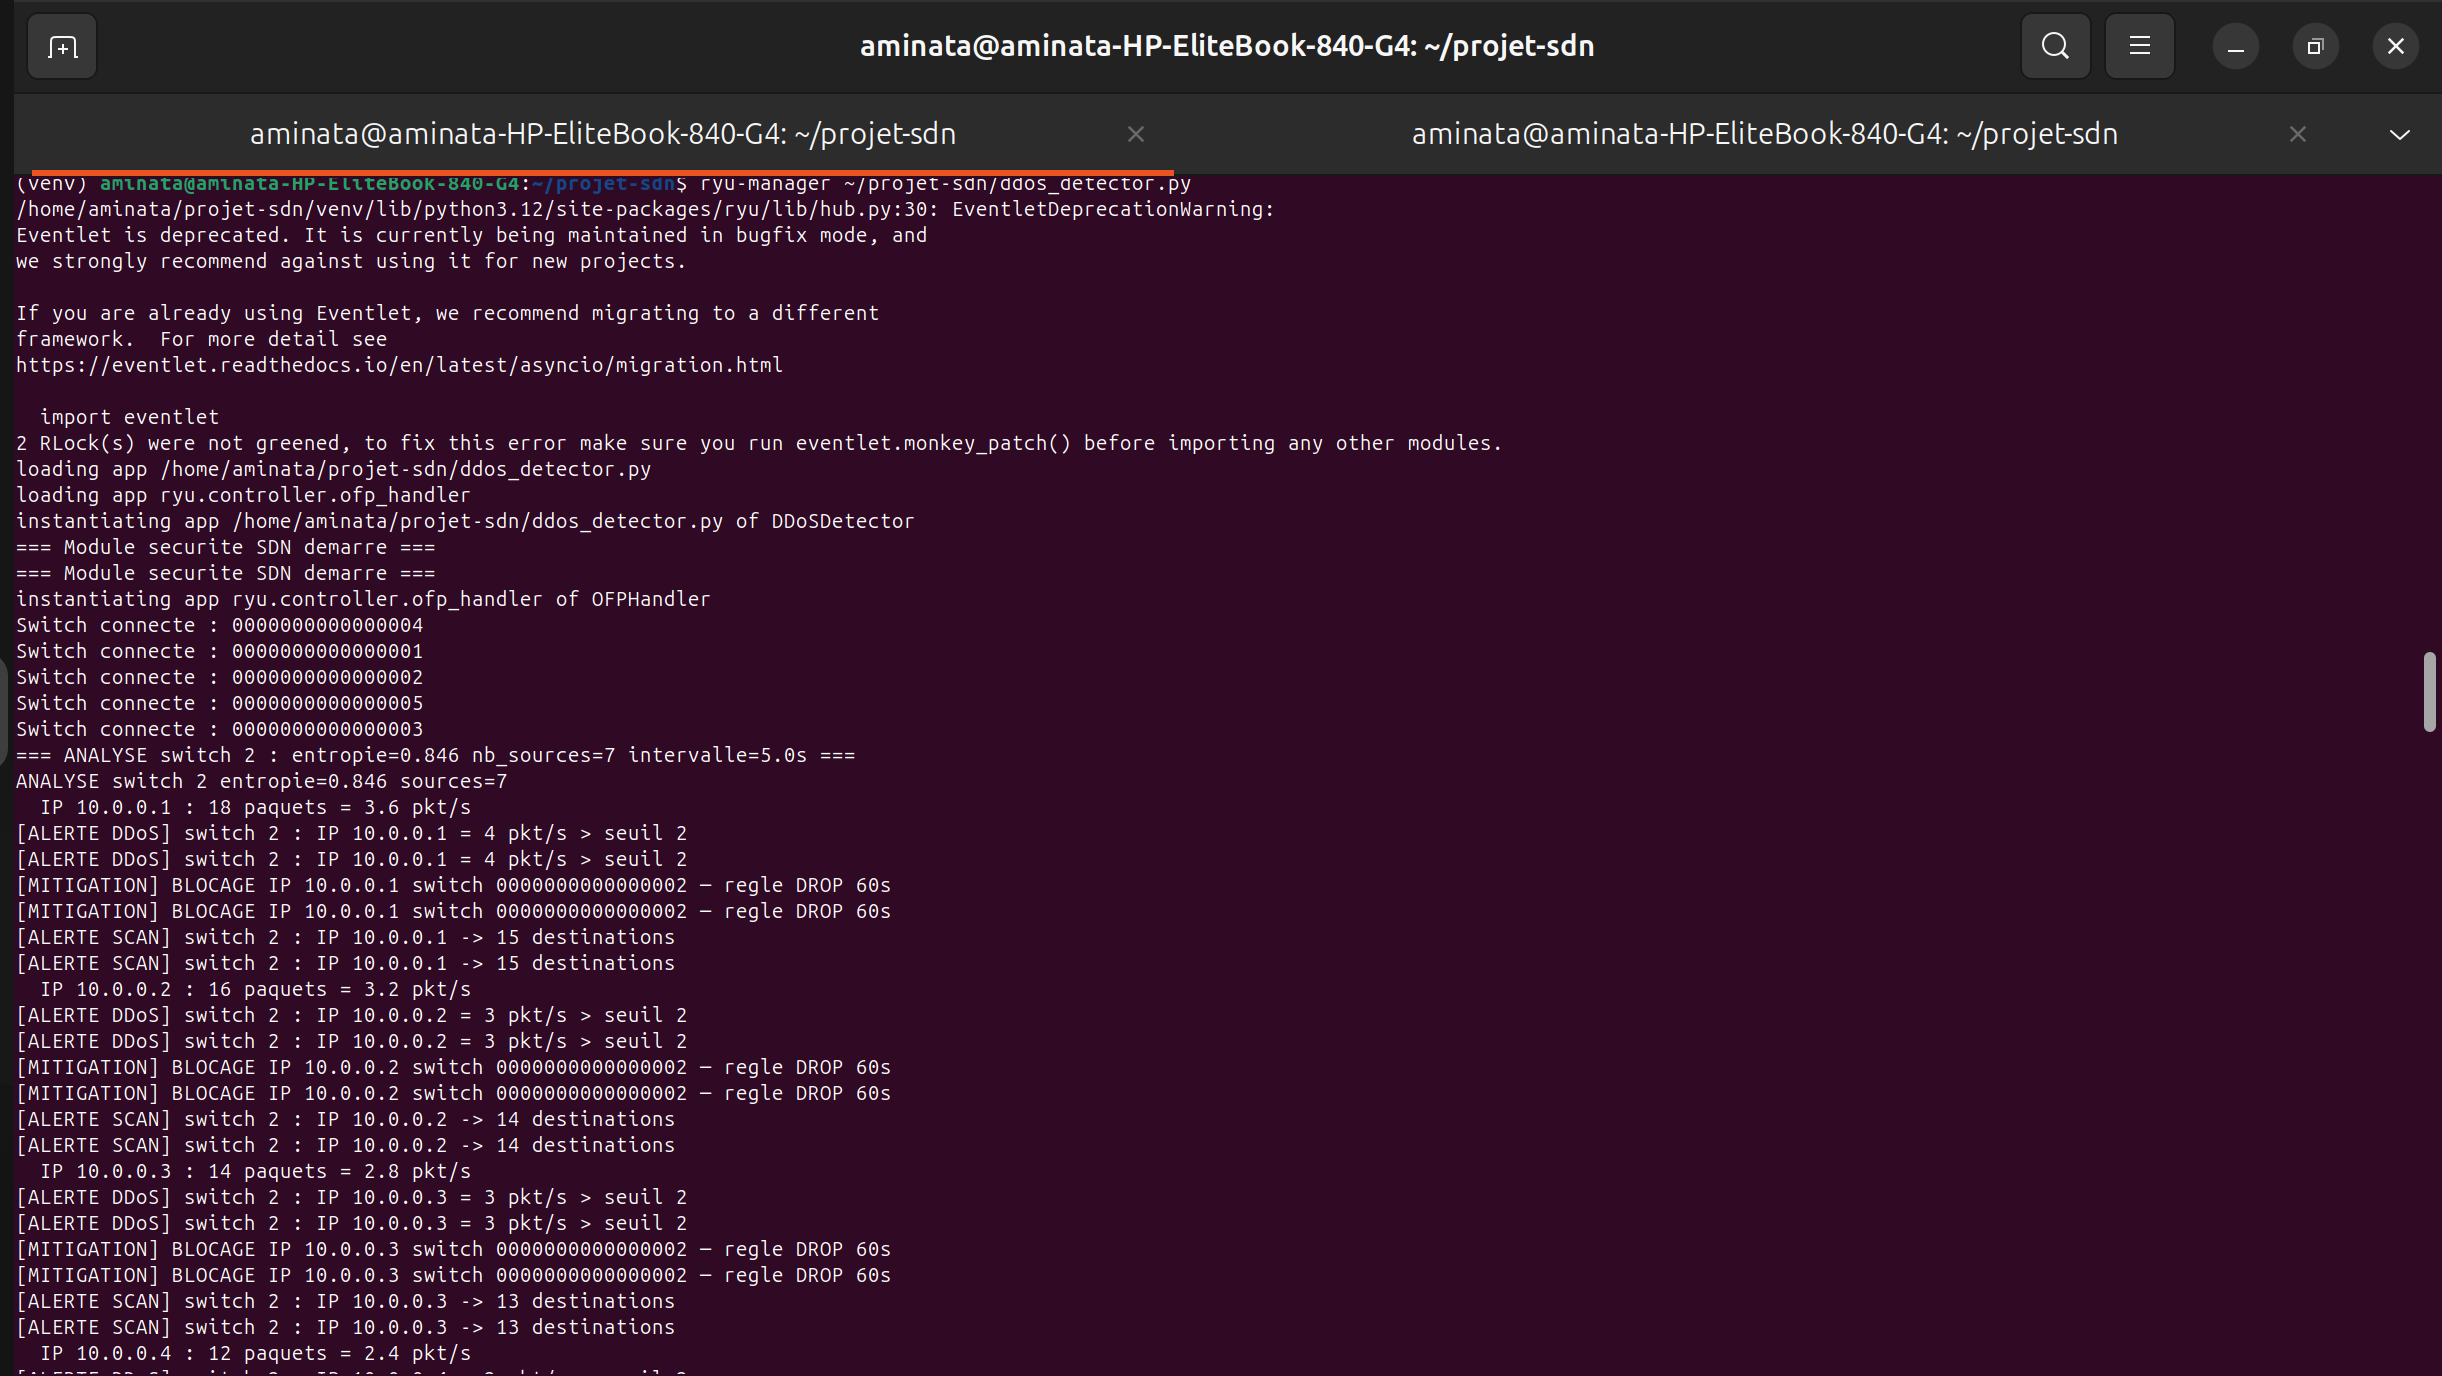
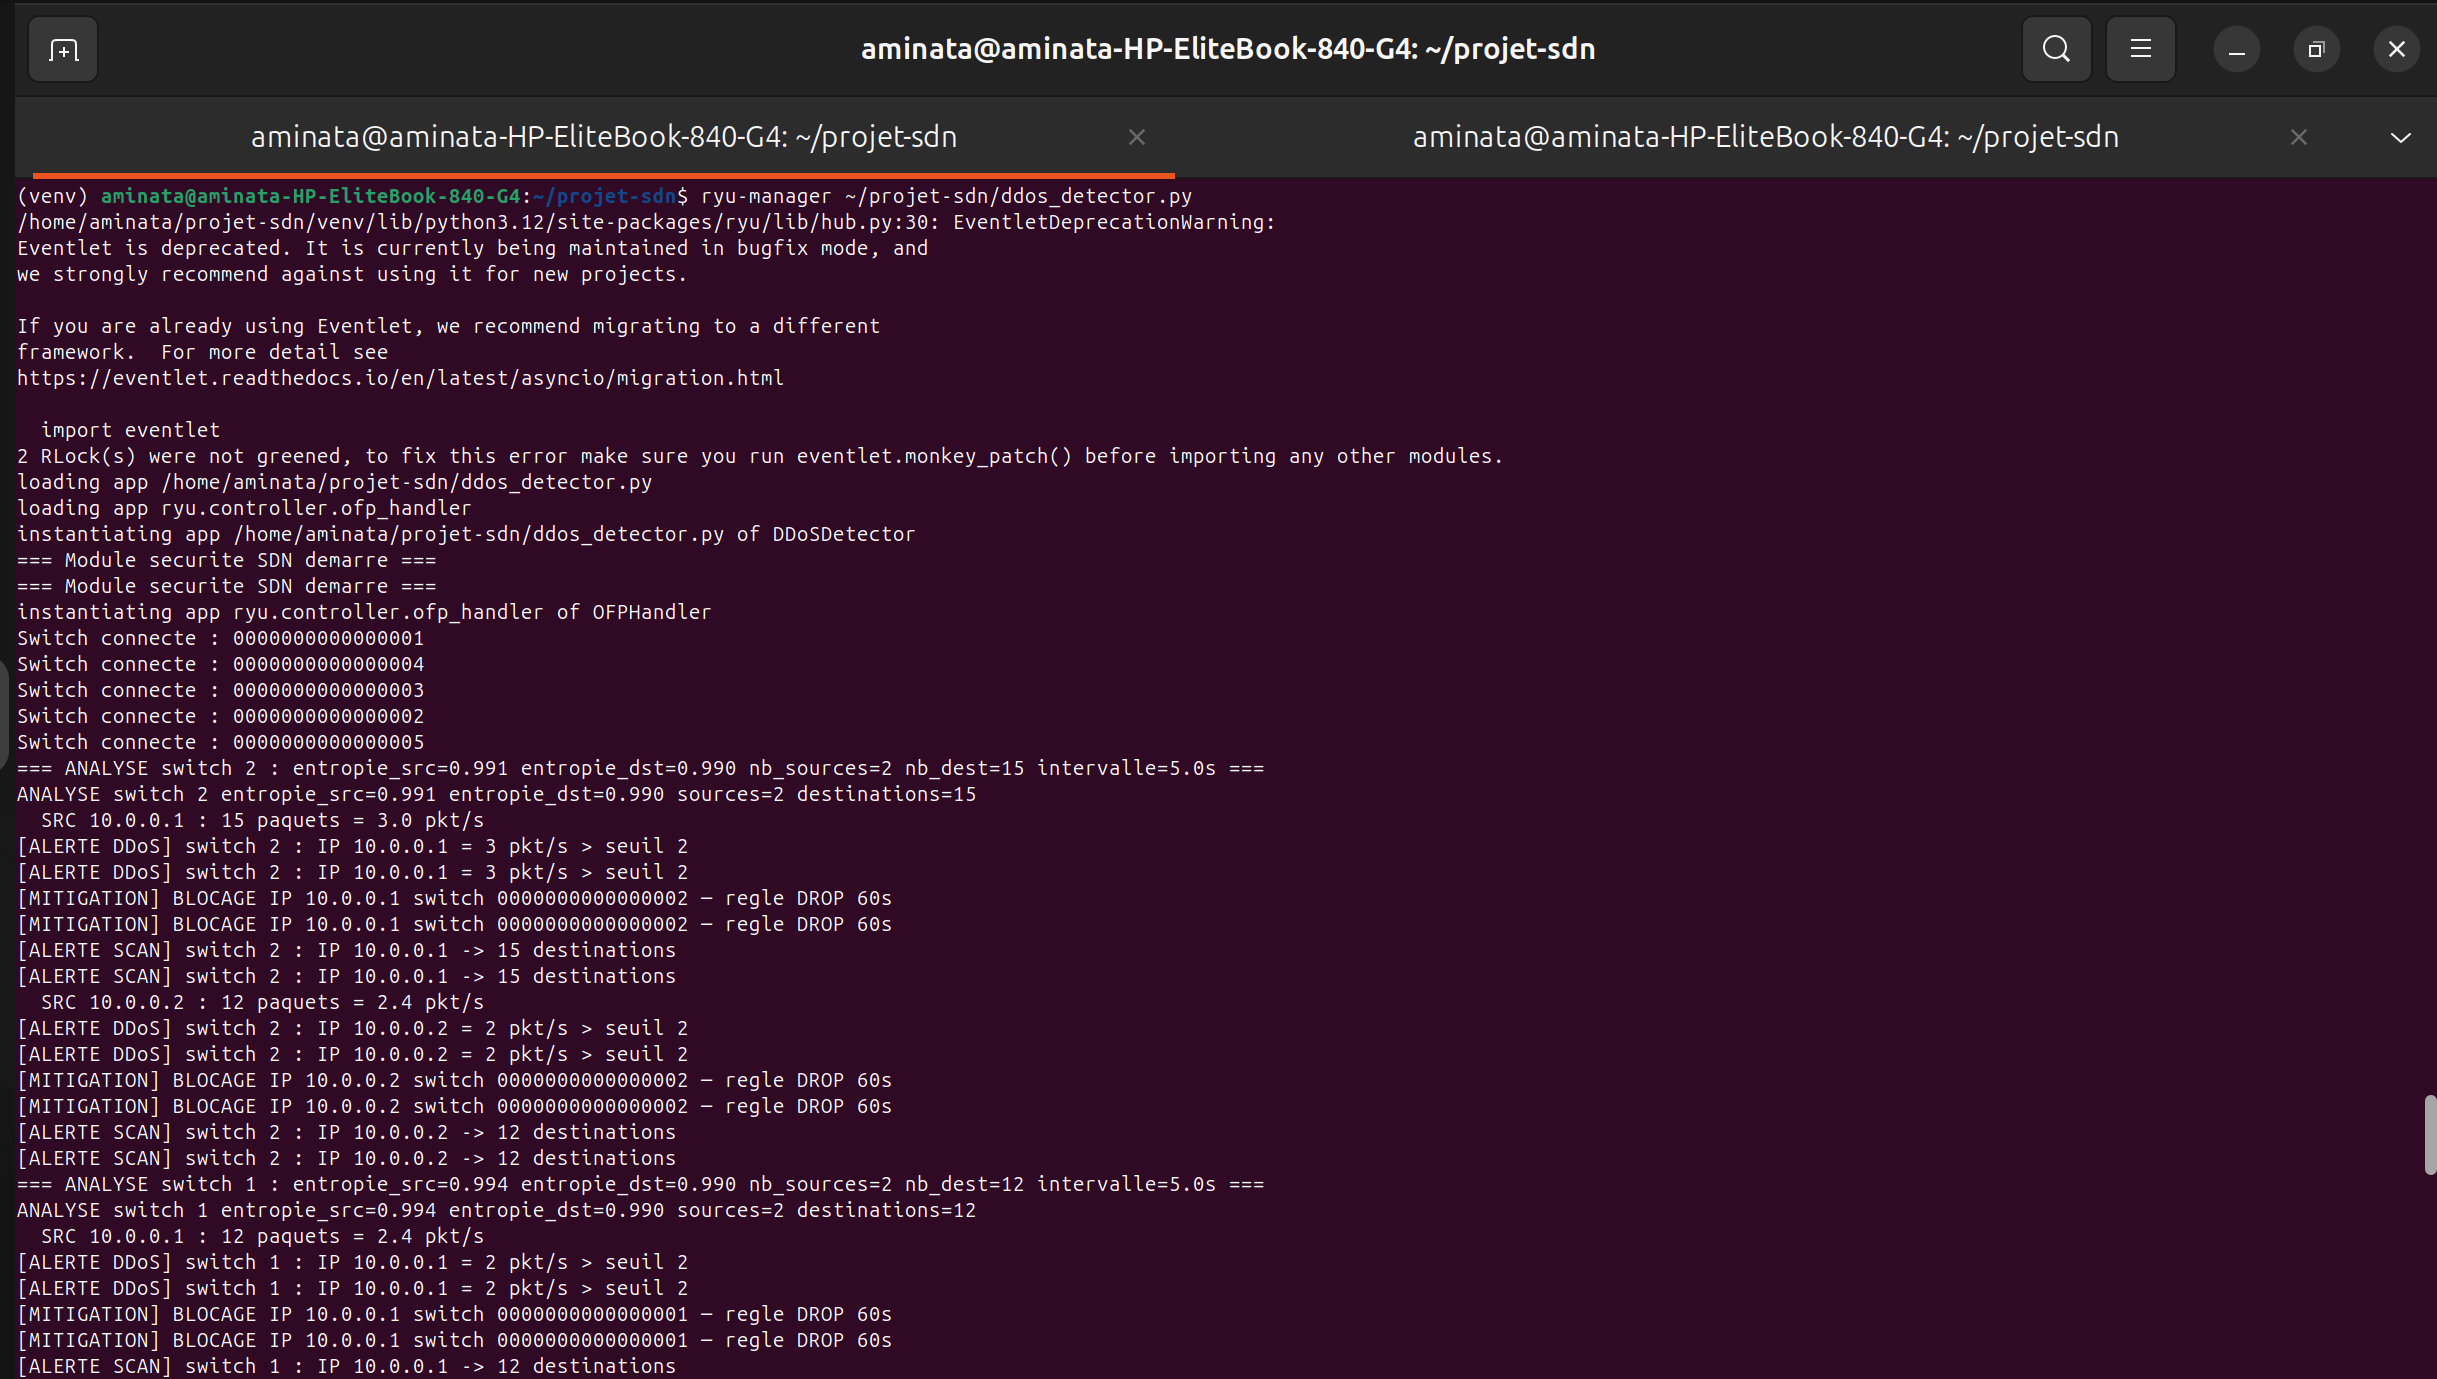
Phase 4 etape 1 : detection DDoS - entropie src+dst + paquets/sec + mitigation DROP + journalisation

diff --git a/ddos_detector.py b/ddos_detector.py
@@ -1,0 +1,232 @@
+from ryu.base import app_manager
+from ryu.controller import ofp_event
+from ryu.controller.handler import MAIN_DISPATCHER, CONFIG_DISPATCHER, DEAD_DISPATCHER
+from ryu.controller.handler import set_ev_cls
+from ryu.ofproto import ofproto_v1_3
+from ryu.lib.packet import packet, ethernet, ipv4, icmp
+from ryu.lib import hub
+from collections import defaultdict
+import math
+import time
+import logging
+import os
+
+class DDoSDetector(app_manager.RyuApp):
+    OFP_VERSIONS = [ofproto_v1_3.OFP_VERSION]
+
+    SEUIL_PAQUETS_PAR_SEC = 2
+    SEUIL_ENTROPIE        = 0.5
+    SEUIL_FLUX_PAR_IP     = 10
+    INTERVALLE_ANALYSE    = 5
+
+    def __init__(self, *args, **kwargs):
+        super(DDoSDetector, self).__init__(*args, **kwargs)
+        self.mac_to_port   = {}
+        self.datapaths     = {}
+        # Compteurs IP sources {dpid: {ip_src: count}}
+        self.ip_src_count  = defaultdict(lambda: defaultdict(int))
+        # Compteurs IP destinations {dpid: {ip_dst: count}}
+        self.ip_dst_count  = defaultdict(lambda: defaultdict(int))
+        # Flux par IP source {dpid: {ip_src: set(ip_dst)}}
+        self.ip_flow_count = defaultdict(lambda: defaultdict(set))
+        self.blocked_ips   = defaultdict(set)
+        self.last_analysis = time.time()
+        self._setup_logger()
+        self.detect_thread = hub.spawn(self._detection_loop)
+
+    def _setup_logger(self):
+        os.makedirs('/tmp/sdn_logs', exist_ok=True)
+        self.sec_logger = logging.getLogger('SDN_Security')
+        self.sec_logger.setLevel(logging.INFO)
+        fh = logging.FileHandler('/tmp/sdn_logs/security_events.log')
+        fh.setFormatter(logging.Formatter(
+            '%(asctime)s [%(levelname)s] %(message)s'))
+        if not self.sec_logger.handlers:
+            self.sec_logger.addHandler(fh)
+        self.sec_logger.info('=== Module securite SDN demarre ===')
+        self.logger.info('=== Module securite SDN demarre ===')
+
+    @set_ev_cls(ofp_event.EventOFPSwitchFeatures, CONFIG_DISPATCHER)
+    def switch_features_handler(self, ev):
+        datapath = ev.msg.datapath
+        ofproto  = datapath.ofproto
+        parser   = datapath.ofproto_parser
+        match    = parser.OFPMatch()
+        actions  = [parser.OFPActionOutput(
+            ofproto.OFPP_CONTROLLER, ofproto.OFPCML_NO_BUFFER)]
+        self.add_flow(datapath, 0, match, actions)
+        self.logger.info('Switch connecte : %016x', datapath.id)
+
+    @set_ev_cls(ofp_event.EventOFPStateChange,
+                [MAIN_DISPATCHER, DEAD_DISPATCHER])
+    def _state_change_handler(self, ev):
+        datapath = ev.datapath
+        if ev.state == MAIN_DISPATCHER:
+            self.datapaths[datapath.id] = datapath
+        elif ev.state == DEAD_DISPATCHER:
+            self.datapaths.pop(datapath.id, None)
+
+    def add_flow(self, datapath, priority, match, actions,
+                 idle=0, hard=0):
+        ofproto = datapath.ofproto
+        parser  = datapath.ofproto_parser
+        inst    = [parser.OFPInstructionActions(
+            ofproto.OFPIT_APPLY_ACTIONS, actions)]
+        mod = parser.OFPFlowMod(
+            datapath=datapath, priority=priority,
+            idle_timeout=idle, hard_timeout=hard,
+            match=match, instructions=inst)
+        datapath.send_msg(mod)
+
+    def _calcul_entropie(self, compteurs):
+        total = sum(compteurs.values())
+        if total == 0:
+            return 1.0
+        entropie = 0.0
+        for count in compteurs.values():
+            p = count / total
+            if p > 0:
+                entropie -= p * math.log2(p)
+        nb = len(compteurs)
+        if nb > 1:
+            entropie /= math.log2(nb)
+        return entropie
+
+    def _block_ip(self, datapath, ip_src):
+        if ip_src in self.blocked_ips[datapath.id]:
+            return
+        parser = datapath.ofproto_parser
+        match  = parser.OFPMatch(eth_type=0x0800, ipv4_src=ip_src)
+        self.add_flow(datapath, 100, match, [], hard=60)
+        self.blocked_ips[datapath.id].add(ip_src)
+        msg = (f'[MITIGATION] BLOCAGE IP {ip_src} '
+               f'switch {datapath.id:016x} — regle DROP 60s')
+        self.logger.warning(msg)
+        self.sec_logger.warning(msg)
+
+    def _detection_loop(self):
+        while True:
+            hub.sleep(self.INTERVALLE_ANALYSE)
+            now   = time.time()
+            delta = now - self.last_analysis
+            self.last_analysis = now
+
+            for dpid in list(self.ip_src_count.keys()):
+                ip_src_counts = self.ip_src_count[dpid]
+                ip_dst_counts = self.ip_dst_count[dpid]
+                if not ip_src_counts:
+                    continue
+                datapath = self.datapaths.get(dpid)
+                if not datapath:
+                    continue
+
+                # Entropie IP sources
+                entropie_src = self._calcul_entropie(ip_src_counts)
+                # Entropie IP destinations
+                entropie_dst = self._calcul_entropie(ip_dst_counts)
+
+                self.logger.info(
+                    '=== ANALYSE switch %s : '
+                    'entropie_src=%.3f entropie_dst=%.3f '
+                    'nb_sources=%d nb_dest=%d intervalle=%.1fs ===',
+                    dpid, entropie_src, entropie_dst,
+                    len(ip_src_counts), len(ip_dst_counts), delta)
+                self.sec_logger.info(
+                    'ANALYSE switch %s entropie_src=%.3f '
+                    'entropie_dst=%.3f sources=%d destinations=%d',
+                    dpid, entropie_src, entropie_dst,
+                    len(ip_src_counts), len(ip_dst_counts))
+
+                # Détection par taux de paquets par IP source
+                for ip_src, count in ip_src_counts.items():
+                    pps = count / delta if delta > 0 else 0
+                    self.logger.info(
+                        '  SRC %s : %d paquets = %.1f pkt/s',
+                        ip_src, count, pps)
+
+                    if pps > self.SEUIL_PAQUETS_PAR_SEC:
+                        msg = (f'[ALERTE DDoS] switch {dpid} : '
+                               f'IP {ip_src} = {pps:.0f} pkt/s '
+                               f'> seuil {self.SEUIL_PAQUETS_PAR_SEC}')
+                        self.logger.warning(msg)
+                        self.sec_logger.warning(msg)
+                        self._block_ip(datapath, ip_src)
+
+                    nb_dst = len(
+                        self.ip_flow_count[dpid].get(ip_src, set()))
+                    if nb_dst > self.SEUIL_FLUX_PAR_IP:
+                        msg = (f'[ALERTE SCAN] switch {dpid} : '
+                               f'IP {ip_src} -> {nb_dst} destinations')
+                        self.logger.warning(msg)
+                        self.sec_logger.warning(msg)
+                        self._block_ip(datapath, ip_src)
+
+                # Détection entropie src faible (flood depuis peu d'IPs)
+                if entropie_src < self.SEUIL_ENTROPIE and \
+                        len(ip_src_counts) > 3:
+                    top_ip = max(ip_src_counts, key=ip_src_counts.get)
+                    msg = (f'[ALERTE DDoS] switch {dpid} : '
+                           f'entropie_src faible {entropie_src:.3f} '
+                           f'— IP dominante {top_ip}')
+                    self.logger.warning(msg)
+                    self.sec_logger.warning(msg)
+                    self._block_ip(datapath, top_ip)
+
+                # Détection entropie dst faible (flood vers peu de cibles)
+                if entropie_dst < self.SEUIL_ENTROPIE and \
+                        len(ip_dst_counts) > 3:
+                    top_dst = max(ip_dst_counts, key=ip_dst_counts.get)
+                    msg = (f'[ALERTE DDoS] switch {dpid} : '
+                           f'entropie_dst faible {entropie_dst:.3f} '
+                           f'— cible dominante {top_dst}')
+                    self.logger.warning(msg)
+                    self.sec_logger.warning(msg)
+
+                # Réinitialiser les compteurs
+                self.ip_src_count[dpid].clear()
+                self.ip_dst_count[dpid].clear()
+                self.ip_flow_count[dpid].clear()
+
+    @set_ev_cls(ofp_event.EventOFPPacketIn, MAIN_DISPATCHER)
+    def _packet_in_handler(self, ev):
+        msg      = ev.msg
+        datapath = msg.datapath
+        ofproto  = datapath.ofproto
+        parser   = datapath.ofproto_parser
+        dpid     = datapath.id
+        in_port  = msg.match['in_port']
+
+        pkt = packet.Packet(msg.data)
+        eth = pkt.get_protocols(ethernet.ethernet)[0]
+        dst = eth.dst
+        src = eth.src
+
+        ip_pkt = pkt.get_protocol(ipv4.ipv4)
+        if ip_pkt:
+            ip_src = ip_pkt.src
+            ip_dst = ip_pkt.dst
+            if ip_src not in self.blocked_ips[dpid]:
+                self.ip_src_count[dpid][ip_src] += 1
+                self.ip_dst_count[dpid][ip_dst] += 1
+                self.ip_flow_count[dpid][ip_src].add(ip_dst)
+
+        self.mac_to_port.setdefault(dpid, {})
+        self.mac_to_port[dpid][src] = in_port
+
+        if dst in self.mac_to_port[dpid]:
+            out_port = self.mac_to_port[dpid][dst]
+        else:
+            out_port = ofproto.OFPP_FLOOD
+
+        actions = [parser.OFPActionOutput(out_port)]
+
+        if out_port != ofproto.OFPP_FLOOD:
+            match = parser.OFPMatch(
+                in_port=in_port, eth_dst=dst, eth_src=src)
+            self.add_flow(datapath, 1, match, actions, idle=2)
+
+        data = msg.data if msg.buffer_id == ofproto.OFP_NO_BUFFER else None
+        out  = parser.OFPPacketOut(
+            datapath=datapath, buffer_id=msg.buffer_id,
+            in_port=in_port, actions=actions, data=data)
+        datapath.send_msg(out)